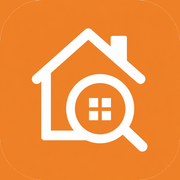
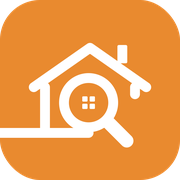
Tune loupe size, inset, and thicker handle
Shrink the magnifier circle, pull it further into the house, and thicken
the handle so the in-app mark better matches the reference.

diff --git a/bfi-app/src/components/AppIcon.tsx b/bfi-app/src/components/AppIcon.tsx
@@ -12,8 +12,8 @@ type AppIconProps = {
 }
 
 /**
- * Due Diligence app icon — matches the attached reference mark.
- * White house + interlocking magnifier with a 4-pane window on a saffron squircle.
+ * Due Diligence app icon — house + magnifier with 4-pane window on saffron squircle.
+ * Loupe sits smaller and more inside the house; handle is thicker than the house stroke.
  */
 export function AppIcon({
   className,
@@ -23,22 +23,31 @@ export function AppIcon({
 }: AppIconProps) {
   const titleId = `${testId}-title`
 
-  const stroke = 30
-  const loupeCx = 268
-  const loupeCy = 300
-  const loupeR = 86
+  const stroke = 28
+  const handleStroke = 38
+  // Smaller loupe, pulled inward (more centered in the house)
+  const loupeCx = 252
+  const loupeCy = 292
+  const loupeR = 70
   const loupeOuter = loupeR + stroke / 2
-  const floorY = 382
+  const floorY = 378
   const floorDy = floorY - loupeCy
   const floorEndX =
     loupeCx - Math.sqrt(Math.max(loupeOuter * loupeOuter - floorDy * floorDy, 0))
 
-  const handleStart = loupeR + stroke * 0.15
-  const handleLen = 72
+  const handleStart = loupeR + stroke * 0.2
+  const handleLen = 78
   const h0x = loupeCx + handleStart * Math.SQRT1_2
   const h0y = loupeCy + handleStart * Math.SQRT1_2
   const h1x = h0x + handleLen * Math.SQRT1_2
   const h1y = h0y + handleLen * Math.SQRT1_2
+
+  // 2×2 window centered in the loupe
+  const pane = 15
+  const gap = 6
+  const grid = pane * 2 + gap
+  const gx = loupeCx - grid / 2
+  const gy = loupeCy - grid / 2
 
   return (
     <svg
@@ -64,7 +73,8 @@ export function AppIcon({
       >
         <path d="M96 248 L256 136 L416 248" />
         <path d={`M128 248 V${floorY} H${floorEndX.toFixed(1)}`} />
-        <path d="M384 248 V272" />
+        {/* Right wall stub under eave — stops above the inward loupe */}
+        <path d="M384 248 V268" />
       </g>
 
       <rect x="334" y="128" width="28" height="52" rx="4" fill="#FFFFFF" />
@@ -79,19 +89,20 @@ export function AppIcon({
       />
 
       <g fill="#FFFFFF">
-        <rect x="247" y="279" width="18" height="18" rx="2.5" />
-        <rect x="271" y="279" width="18" height="18" rx="2.5" />
-        <rect x="247" y="303" width="18" height="18" rx="2.5" />
-        <rect x="271" y="303" width="18" height="18" rx="2.5" />
+        <rect x={gx} y={gy} width={pane} height={pane} rx="2.5" />
+        <rect x={gx + pane + gap} y={gy} width={pane} height={pane} rx="2.5" />
+        <rect x={gx} y={gy + pane + gap} width={pane} height={pane} rx="2.5" />
+        <rect x={gx + pane + gap} y={gy + pane + gap} width={pane} height={pane} rx="2.5" />
       </g>
 
+      {/* Thicker handle to match the reference mark */}
       <line
         x1={h0x}
         y1={h0y}
         x2={h1x}
         y2={h1y}
         stroke="#FFFFFF"
-        strokeWidth={stroke}
+        strokeWidth={handleStroke}
         strokeLinecap="round"
       />
     </svg>

diff --git a/bfi-app/src/components/BrandLogo.tsx b/bfi-app/src/components/BrandLogo.tsx
@@ -20,7 +20,7 @@ export function BrandLogo({
 }: BrandLogoProps) {
   return (
     <img
-      src="/logo.png?v=exact"
+      src="/logo.png?v=loupe-in"
       alt={alt}
       width={size}
       height={size}
